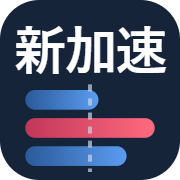
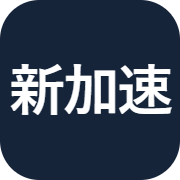
アイコンを「新加速」の文字だけにする

diff --git a/index.html b/index.html
@@ -4,9 +4,9 @@
 <meta charset="utf-8">
 <meta name="viewport" content="width=device-width, initial-scale=1">
 <title>新加速タイム</title>
-<link rel="icon" type="image/svg+xml" href="icon.svg?v=2">
-<link rel="icon" type="image/png" sizes="180x180" href="icon-180.png?v=2">
-<link rel="apple-touch-icon" href="icon-180.png?v=2">
+<link rel="icon" type="image/svg+xml" href="icon.svg?v=3">
+<link rel="icon" type="image/png" sizes="180x180" href="icon-180.png?v=3">
+<link rel="apple-touch-icon" href="icon-180.png?v=3">
 <meta name="apple-mobile-web-app-title" content="新加速タイム">
 <meta name="theme-color" content="#16243a">
 <style>
